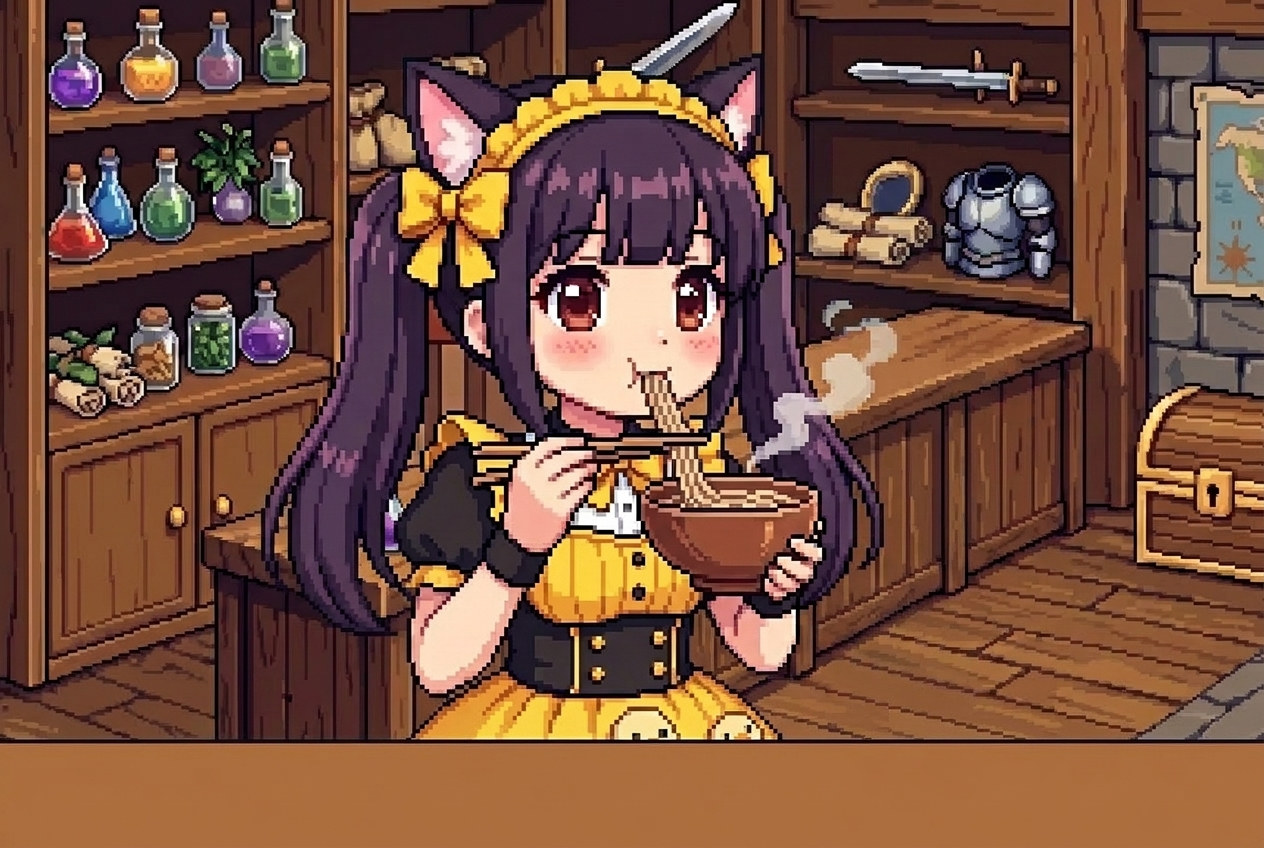
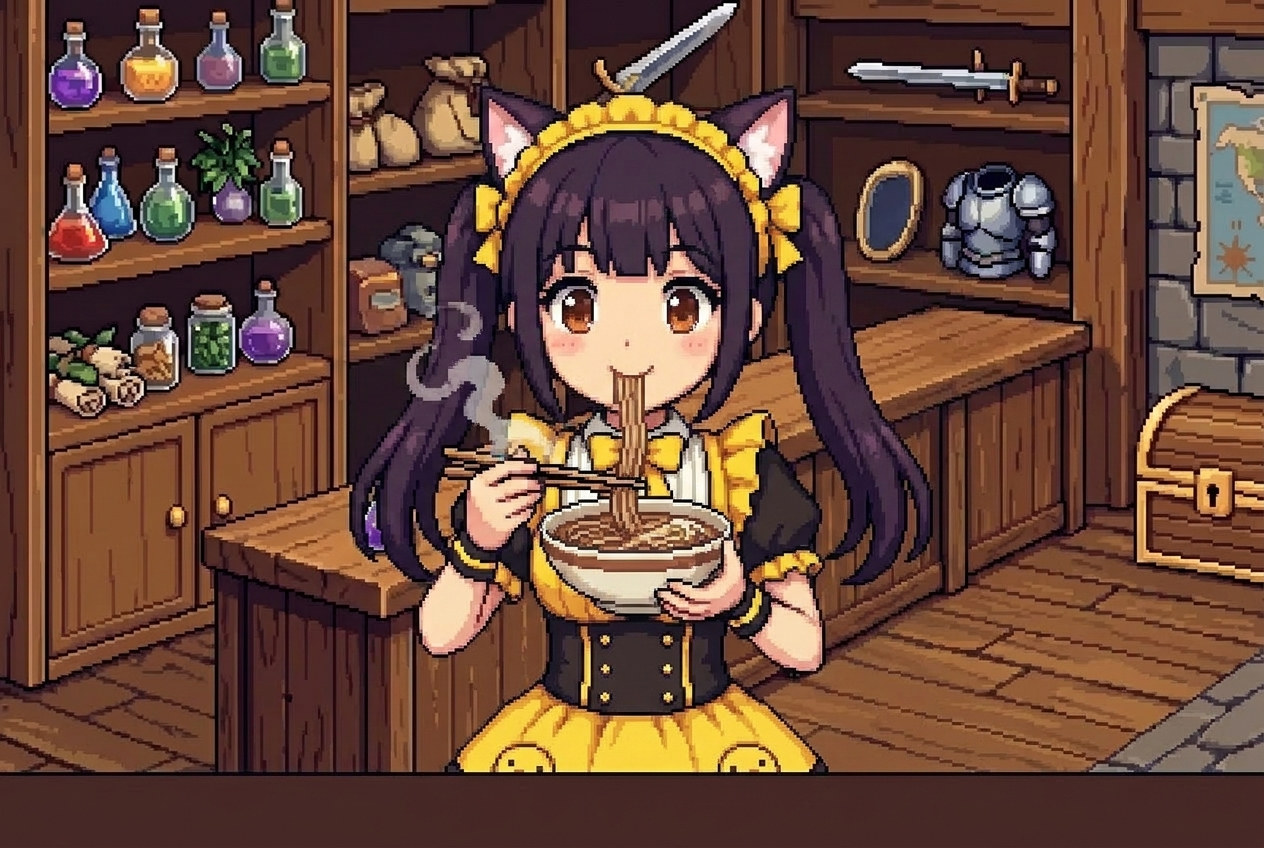
Ver.1.707: たちぐいそばを作り直し（年齢を退店時 shop05 に合わせた）
- ユーザー指摘「退店時とたちぐいそばが同じ年齢に見えない・立ち食いそばは幼すぎる」に対応。
  年齢の正を images/shop05.jpg と確定し、顔幅を揃えて並べて検品した
- ART_STYLE.md 冒頭に「🥇判定の優先順位」を追加（画風＞同一人物＞同一年齢＞衣装＞粒。
  粒の数値は最下位＝ユーザー厳命）＋「👧年齢の正」に幼く見える5症状の表
- 作法も記録: 旧版を参照に渡して「顔だけ直せ」は効かない（旧版の顔を引き継ぐ）。
  年齢の正の顔を切り出して拡大した参照＋部屋の参照だけを渡し、場面は言葉で組み立て直す。
  ただし髪型と髪飾りが飛びやすい（候補a/cはツインテールとヘッドバンドが消えて別人になった）

diff --git a/index.html b/index.html
@@ -76,7 +76,7 @@
                 box-sizing: border-box;
             }
             body::after {
-                content: "Ver.1.706";
+                content: "Ver.1.707";
                 position: fixed;
                 bottom: 8px; right: 10px;
                 color: rgba(255,255,255,0.5);
@@ -982,7 +982,7 @@
                     color: #fff; font-size: clamp(7px, 1.2vw, 12px);
                     text-shadow: 2px 2px 4px rgba(0,0,0,0.8);
                     font-weight: bold;">
-                    <span style="background: rgba(0,0,0,0.4); padding: 2px 6px; border-radius: 5px;">Ver.1.706</span>
+                    <span style="background: rgba(0,0,0,0.4); padding: 2px 6px; border-radius: 5px;">Ver.1.707</span>
                 </div>
 
                 <!-- クレジット：右下 -->

diff --git a/ART_STYLE.md b/ART_STYLE.md
@@ -10,6 +10,62 @@
 
 ---
 
+# 🥇 判定の優先順位（2026-07-31 ユーザー厳命・**これが最上位**）
+
+> **粗さの波よりも、人間には「絵のタッチ（画風）」「同一人物に見えるか」「同一年齢に見えるか」の方がはるかに重要。**
+
+1. **画風（タッチ）が他の採用絵と同じか**
+2. **同一人物に見えるか**
+3. **同一年齢に見えるか** ← ⚠**見落としやすい。下の「年齢」節が正**
+4. 衣装・小物の正しさ
+5. 粒（ドット感）の数値 ← **一番下**。⚠数値が帯を外れていても、上の1〜3が合っていればユーザーは採用する
+   （実例: `shop01`/`02`/`04` は画面上1.29〜1.46＝帯外でも採用。逆に帯内でも幼く見えて却下されたのが `soba` 1.705）
+
+⚠**検品の順番も この順**。粒を測って安心してはいけない。**必ず「採用済みの絵と顔を並べて」から見せる**
+（`tools/piyo-cuts-sheet.mjs` の顔シート／顔幅を揃えた2枚並べ）。
+
+---
+
+# 👧 年齢の正 — `images/shop05.jpg`（2026-07-31 ユーザー指示）
+
+⚠**ユーザー指摘**:「**退店時とたちぐいそばがどうみても同じ年齢には見えない。立ち食いそばは幼すぎる**」。
+＝**顔の作りの正は `shop05.jpg`（退店の絵）**。`title.jpg` は全身絵で顔が小さく、年齢の基準には使いにくい。
+
+**幼く見えてしまう5つの症状**（`soba` 1.705 で実際に全部出た。顔幅を揃えて並べて判明）
+
+| | ❌幼く見える（soba 1.705） | ✅正（shop05） |
+|---|---|---|
+| 目の形 | **真円に近い**大きな目 | **横長の楕円**でやや小さい |
+| 目の位置 | 顔の中央より**下** | 顔の**中央〜やや上** |
+| 目の間隔 | **広い** | やや狭い |
+| 目からあご | **短い** | **長い** |
+| チーク | **大きく横に広い** | 小さい楕円 |
+| 顔の輪郭 | 真円寄り | **やや縦長** |
+
+⚠**下の「😊可愛さを左右する要素」（目を丸く大きく／あごを小さく）を効かせすぎると幼児になる。**
+2つは矛盾するので、**可愛さは `shop05` の範囲内で出す**こと。迷ったら `shop05` の顔に寄せる。
+
+**検品のやり方＝顔幅を揃えて `shop05` と並べる。** 数値では出ないので必ず目で見る:
+```
+# 顔幅を揃えて2〜3枚並べる（顔幅は measure-grain の「顔幅（肌の最長連続）」を使う）
+node -e "…"   # 例は tools/piyo-cuts-sheet.mjs の crop ロジックを流用
+```
+
+### ⚠年齢を直す時の作法（1.707 で失敗して分かった）
+
+**❌旧版を参照に渡して「顔だけ直して」と言うと、Gemini は旧版の顔をそのまま引き継ぐ。**
+`--set=age`（現行そばを参照2に渡した）は3枚とも幼い顔のまま出た。
+
+**✅正解＝旧版は参照から外し、「直せ」ではなく「これで描け」にする。**
+1. **年齢の正の顔を切り出して拡大**した参照を作る（`_raw/REF_shop05_face.png`＝`shop05` の顔を680pxへ）
+2. 参照は **①その顔** ＋ **②部屋とタッチ（`shop01.jpg`）** の2枚だけ
+3. 場面・芝居・衣装は**言葉で組み立て直す**
+
+⚠**この方法だと年齢は直るが、髪型と髪飾りが飛びやすい**（1.707 の候補a/cは**ツインテールと
+黄色いヘッドバンドが消えて別人**になった）。**衣装と髪型の指定を毎回入れて、上がりを必ず確認する**。
+
+---
+
 # 🚫 絶対条件 — 頭身を下げない（2026-07-31 ユーザー厳命）
 
 > **タイトル画像のぴよ氏より頭身を下げてデフォルメしてはいけない。この頭身であることが絶対条件。**

diff --git a/HANDOFF.md b/HANDOFF.md
@@ -4,7 +4,7 @@
 
 ---
 
-## 🎨 Ver.1.698〜1.706 — 一枚絵の「絵のタッチ統一」監査（2026-07-31）
+## 🎨 Ver.1.698〜1.707 — 一枚絵の「絵のタッチ統一」監査（2026-07-31）
 
 **基準は `ART_STYLE.md`（この監査で作った文書。キャラの絵の正）／検品ツールは `tools/measure-grain.mjs`。**
 生成は Gemini のみ。ツールは `tools/gemini-*.mjs`（画像ごとに1本ずつ残してある）。
@@ -75,6 +75,23 @@
    - ✅ブラウザ実測で両方の差し替えを確認（title_shop は表示 528×393・切れ落ちなし／shop02 は 571×393）
 
 **それ以外の13枚はユーザーOK。** 一覧で浮いていた未着手3枚（`special_cutin` / `eyes_closeup` / `icon-1024`）は下記へ。
+
+### 👧 Ver.1.707 — たちぐいそばを作り直し（**年齢を `shop05` に合わせた**）
+
+⚠**ユーザー指摘**:「**退店時とたちぐいそばがどうみても同じ年齢には見えない。立ち食いそばは幼すぎる。
+退店時の画像を元にして再生成して**」／「**粗さの波よりも、人間には絵のタッチ（画風）、同一人物、
+同一年齢に見えるかの方がはるかに重要**」
+
+- ✅**この優先順位を `ART_STYLE.md` の冒頭「🥇判定の優先順位」に明記した**（粒は最下位）。
+  今後の検品は「①画風 ②同一人物 ③同一年齢 …⑤粒」の順で、**必ず採用済みの絵と顔を並べてから見せる**
+- ✅**年齢の正は `images/shop05.jpg`**（退店の絵）と確定。幼く見える5症状の表は `ART_STYLE.md`「👧年齢の正」
+- ⚠**やり方の失敗と正解**（`gemini-soba-scene.mjs` にどちらも残してある）:
+  - ❌`--set=age`＝旧版を参照に渡して「顔だけ直せ」→ **旧版の顔をそのまま引き継いだ**（3枚とも幼いまま）
+  - ✅`--set=age2`＝**旧版は参照から外す**。`_raw/REF_shop05_face.png`（shop05の顔を680pxに拡大）＋
+    `shop01.jpg`（部屋とタッチ）の2枚だけ渡し、場面は言葉で組み立て直す
+  - ⚠この方法は**髪型と髪飾りが飛ぶ**。候補a/cは**ツインテールと黄色いヘッドバンドが消えて別人**になった
+    （採用したbだけ両方残っていた）。衣装と髪型の指定は毎回入れて、上がりを必ず見る
+- 旧版は `_raw/soba_1705_tooyoung_OLD.jpg` に退避
 
 ### ⏭ 次セッションに引き継ぐこと
 
